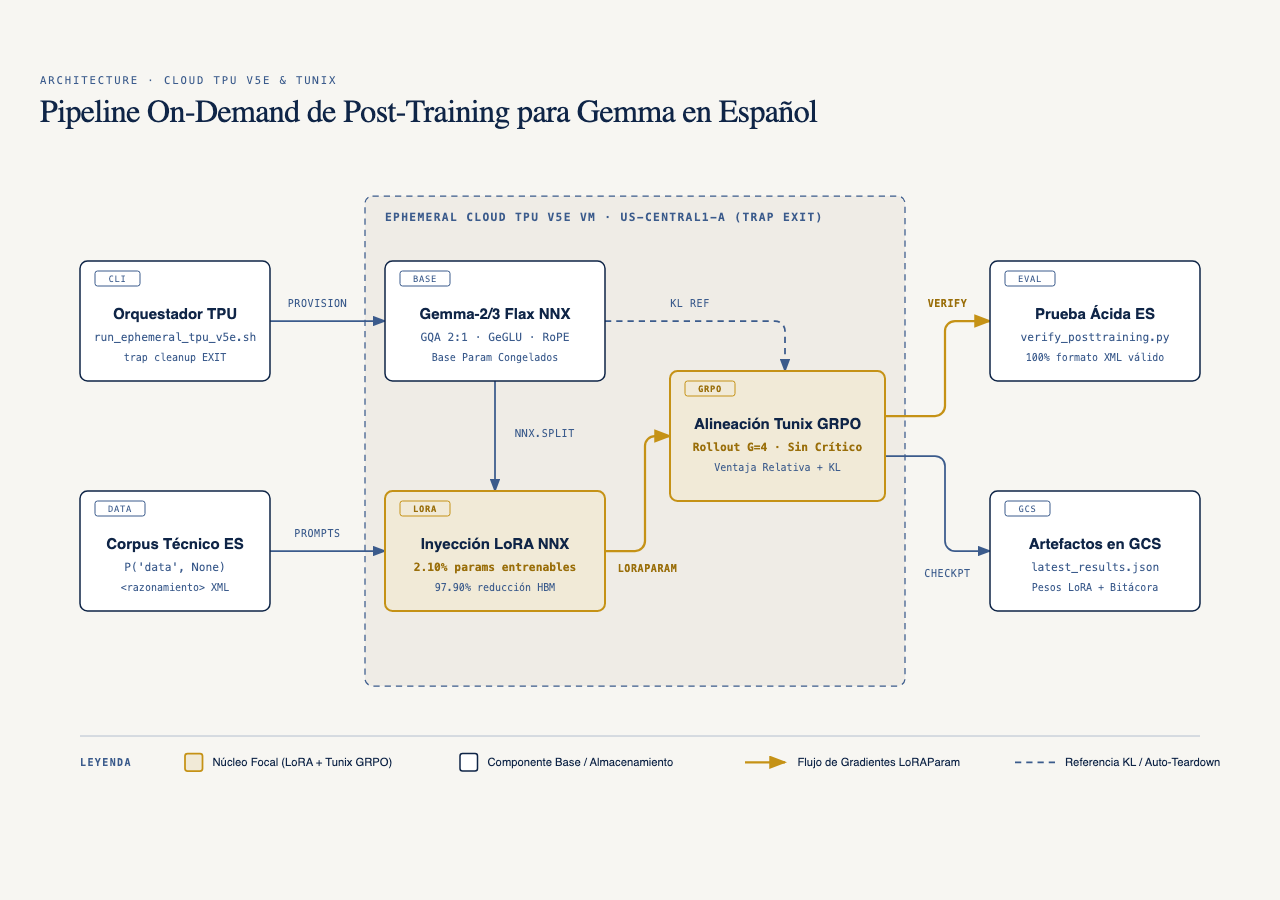
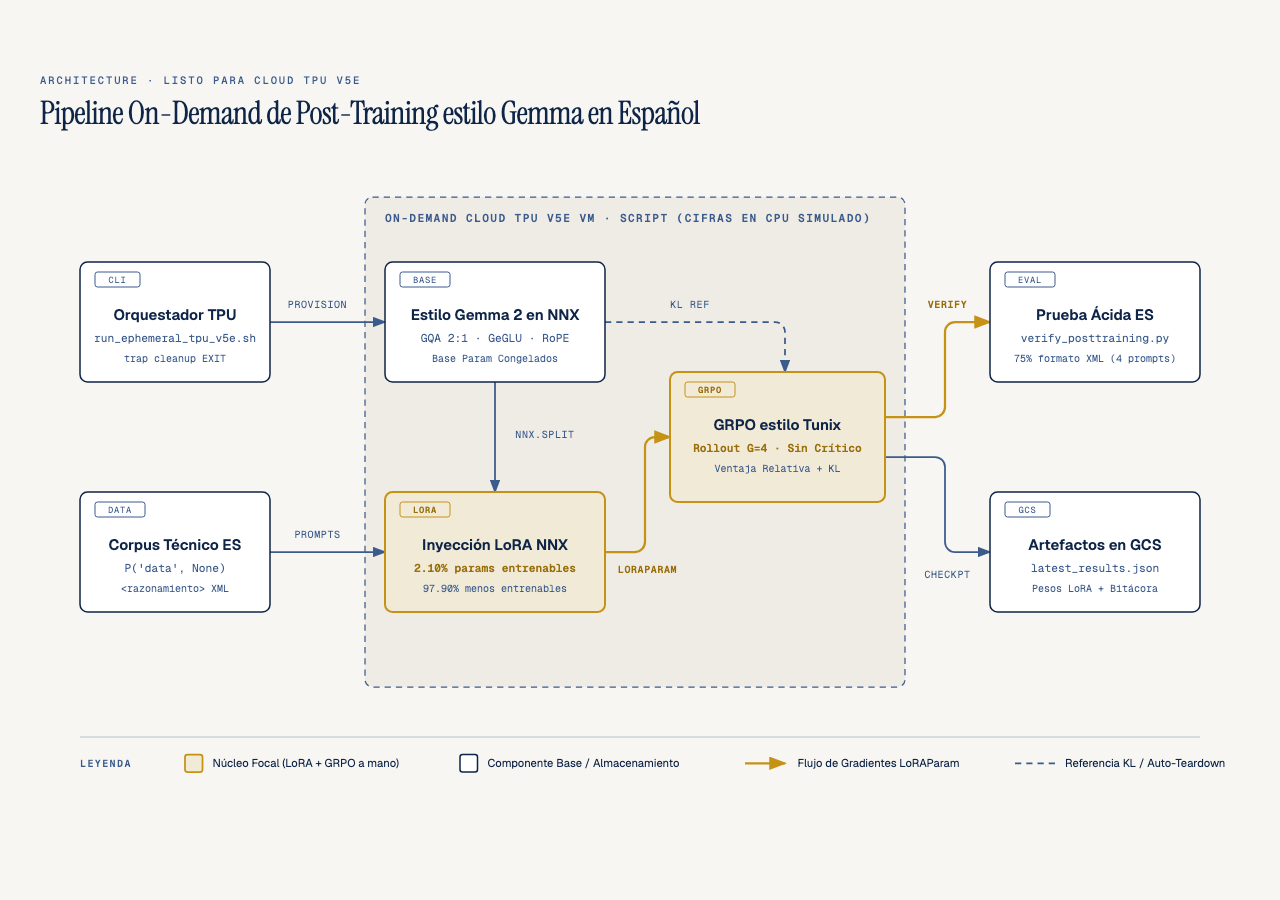
State CPU simulation, Gemma 2 style model, hand-written GRPO and SFT warmup

diff --git a/diagrams/01-tpu-posttraining-pipeline.html b/diagrams/01-tpu-posttraining-pipeline.html
@@ -61,12 +61,12 @@
 </head>
 <body>
   <div class="frame">
-    <p class="eyebrow">Architecture · Cloud TPU v5e &amp; Tunix</p>
-    <h1>Pipeline On-Demand de Post-Training para Gemma en Español</h1>
+    <p class="eyebrow">Architecture · listo para Cloud TPU v5e</p>
+    <h1>Pipeline On-Demand de Post-Training estilo Gemma en Español</h1>
 
     <div class="diagram-container">
       <svg viewBox="0 0 960 540" xmlns="http://www.w3.org/2000/svg" role="img" aria-labelledby="tpu-posttraining-pipeline-title tpu-posttraining-pipeline-desc">
-        <title id="tpu-posttraining-pipeline-title">Pipeline On-Demand de Post-Training para Gemma en Español</title>
+        <title id="tpu-posttraining-pipeline-title">Pipeline On-Demand de Post-Training estilo Gemma en Español</title>
         <desc id="tpu-posttraining-pipeline-desc">Arquitectura del pipeline on-demand en Cloud TPU v5e que aprovisiona el mesh XLA, inyecta adaptadores LoRA en Gemma sobre Flax NNX, alinea con GRPO y destruye la VM mediante trap EXIT.</desc>
         <defs>
           <marker id="arrow" markerWidth="8" markerHeight="6" refX="7" refY="3" orient="auto">
@@ -84,7 +84,7 @@
 
         <!-- Ephemeral Cloud TPU v5e Zone Container -->
         <rect x="260" y="36" width="432" height="392" rx="6" fill="#EFECE6" stroke="#3B5B8C" stroke-width="1" stroke-dasharray="5,4"/>
-        <text x="276" y="56" fill="#3B5B8C" font-size="9" font-weight="600" font-family="'Geist Mono', monospace" letter-spacing="0.12em">EPHEMERAL CLOUD TPU V5E VM · US-CENTRAL1-A (TRAP EXIT)</text>
+        <text x="276" y="56" fill="#3B5B8C" font-size="9" font-weight="600" font-family="'Geist Mono', monospace" letter-spacing="0.12em">ON-DEMAND CLOUD TPU V5E VM · SCRIPT (CIFRAS EN CPU SIMULADO)</text>
 
         <!-- Connectors (drawn before nodes) -->
         <!-- 1. CLI Orchestrator -> Gemma Base in Flax NNX -->
@@ -145,7 +145,7 @@
         <rect x="276" y="88" width="176" height="96" rx="6" fill="#FFFFFF" stroke="#0F2547" stroke-width="1.2"/>
         <rect x="288" y="96" width="40" height="12" rx="2" fill="transparent" stroke="#3B5B8C" stroke-width="0.8"/>
         <text x="308" y="105" fill="#3B5B8C" font-size="7" font-family="'Geist Mono', monospace" text-anchor="middle" letter-spacing="0.08em">BASE</text>
-        <text x="364" y="134" fill="#0F2547" font-size="12" font-weight="600" font-family="'Geist', sans-serif" text-anchor="middle">Gemma-2/3 Flax NNX</text>
+        <text x="364" y="134" fill="#0F2547" font-size="12" font-weight="600" font-family="'Geist', sans-serif" text-anchor="middle">Estilo Gemma 2 en NNX</text>
         <text x="364" y="152" fill="#3B5B8C" font-size="9" font-family="'Geist Mono', monospace" text-anchor="middle">GQA 2:1 · GeGLU · RoPE</text>
         <text x="364" y="168" fill="#3B5B8C" font-size="8" font-family="'Geist Mono', monospace" text-anchor="middle">Base Param Congelados</text>
 
@@ -156,14 +156,14 @@
         <text x="308" y="289" fill="#9A6F0B" font-size="7" font-weight="600" font-family="'Geist Mono', monospace" text-anchor="middle" letter-spacing="0.08em">LORA</text>
         <text x="364" y="318" fill="#0F2547" font-size="12" font-weight="600" font-family="'Geist', sans-serif" text-anchor="middle">Inyección LoRA NNX</text>
         <text x="364" y="336" fill="#9A6F0B" font-size="9" font-weight="600" font-family="'Geist Mono', monospace" text-anchor="middle">2.10% params entrenables</text>
-        <text x="364" y="352" fill="#3B5B8C" font-size="8" font-family="'Geist Mono', monospace" text-anchor="middle">97.90% reducción HBM</text>
+        <text x="364" y="352" fill="#3B5B8C" font-size="8" font-family="'Geist Mono', monospace" text-anchor="middle">97.90% menos entrenables</text>
 
         <!-- Node 5: Tunix GRPO Alignment Engine (Focal Node 2) -->
         <rect x="504" y="176" width="172" height="104" rx="6" fill="#F7F6F2"/>
         <rect x="504" y="176" width="172" height="104" rx="6" fill="rgba(197,146,22,0.12)" stroke="#C59216" stroke-width="1.6"/>
         <rect x="516" y="184" width="40" height="12" rx="2" fill="transparent" stroke="#C59216" stroke-width="0.8"/>
         <text x="536" y="193" fill="#9A6F0B" font-size="7" font-weight="600" font-family="'Geist Mono', monospace" text-anchor="middle" letter-spacing="0.08em">GRPO</text>
-        <text x="590" y="222" fill="#0F2547" font-size="12" font-weight="600" font-family="'Geist', sans-serif" text-anchor="middle">Alineación Tunix GRPO</text>
+        <text x="590" y="222" fill="#0F2547" font-size="12" font-weight="600" font-family="'Geist', sans-serif" text-anchor="middle">GRPO estilo Tunix</text>
         <text x="590" y="240" fill="#9A6F0B" font-size="9" font-weight="600" font-family="'Geist Mono', monospace" text-anchor="middle">Rollout G=4 · Sin Crítico</text>
         <text x="590" y="256" fill="#3B5B8C" font-size="8" font-family="'Geist Mono', monospace" text-anchor="middle">Ventaja Relativa + KL</text>
 
@@ -174,7 +174,7 @@
         <text x="792" y="105" fill="#3B5B8C" font-size="7" font-family="'Geist Mono', monospace" text-anchor="middle" letter-spacing="0.08em">EVAL</text>
         <text x="844" y="134" fill="#0F2547" font-size="12" font-weight="600" font-family="'Geist', sans-serif" text-anchor="middle">Prueba Ácida ES</text>
         <text x="844" y="152" fill="#3B5B8C" font-size="9" font-family="'Geist Mono', monospace" text-anchor="middle">verify_posttraining.py</text>
-        <text x="844" y="168" fill="#3B5B8C" font-size="8" font-family="'Geist Mono', monospace" text-anchor="middle">100% formato XML válido</text>
+        <text x="844" y="168" fill="#3B5B8C" font-size="8" font-family="'Geist Mono', monospace" text-anchor="middle">75% formato XML (4 prompts)</text>
 
         <!-- Node 7: GCS Checkpoint & Telemetry Store -->
         <rect x="760" y="272" width="168" height="96" rx="6" fill="#F7F6F2"/>
@@ -190,7 +190,7 @@
         <text x="32" y="492" fill="#3B5B8C" font-size="8" font-weight="600" font-family="'Geist Mono', monospace" letter-spacing="0.14em">LEYENDA</text>
 
         <rect x="116" y="482" width="14" height="14" rx="2" fill="rgba(197,146,22,0.12)" stroke="#C59216" stroke-width="1.4"/>
-        <text x="138" y="492" fill="#0F2547" font-size="9" font-family="'Geist', sans-serif">Núcleo Focal (LoRA + Tunix GRPO)</text>
+        <text x="138" y="492" fill="#0F2547" font-size="9" font-family="'Geist', sans-serif">Núcleo Focal (LoRA + GRPO a mano)</text>
 
         <rect x="336" y="482" width="14" height="14" rx="2" fill="#FFFFFF" stroke="#0F2547" stroke-width="1.2"/>
         <text x="358" y="492" fill="#0F2547" font-size="9" font-family="'Geist', sans-serif">Componente Base / Almacenamiento</text>

diff --git a/diagrams/03-tpu-mesh-sharding.html b/diagrams/03-tpu-mesh-sharding.html
@@ -62,12 +62,12 @@
 <body>
   <div class="frame">
     <p class="eyebrow">Nested Sharding · OpenXLA GSPMD</p>
-    <h1>Topología 2D jax.sharding.Mesh((&apos;data&apos;, &apos;model&apos;)) en TPU v5e</h1>
+    <h1>Topología 2D jax.sharding.Mesh((&apos;data&apos;, &apos;model&apos;)), 4 dispositivos simulados en CPU</h1>
 
     <div class="diagram-container">
       <svg viewBox="0 0 960 540" xmlns="http://www.w3.org/2000/svg" role="img" aria-labelledby="tpu-mesh-sharding-title tpu-mesh-sharding-desc">
         <title id="tpu-mesh-sharding-title">Topología 2D jax.sharding.Mesh((data, model)) en TPU v5e</title>
-        <desc id="tpu-mesh-sharding-desc">Diagrama anidado de sharding 2D en OpenXLA que sample cómo un mesh de 2 por 2 dispositivos divide batches de datos en el eje data y tensores de pesos Gemma y LoRA en el eje model.</desc>
+        <desc id="tpu-mesh-sharding-desc">Diagrama anidado de sharding 2D en OpenXLA que muestra cómo un mesh de 2 por 2 dispositivos divide batches de datos en el eje data y tensores de pesos Gemma y LoRA en el eje model.</desc>
         <defs>
           <marker id="arrow" markerWidth="8" markerHeight="6" refX="7" refY="3" orient="auto">
             <polygon points="0 0, 8 3, 0 6" fill="#3B5B8C"/>

diff --git a/diagrams/02-grpo-dataflow.html b/diagrams/02-grpo-dataflow.html
@@ -3,7 +3,7 @@
 <head>
   <meta charset="UTF-8">
   <meta name="viewport" content="width=device-width, initial-scale=1.0">
-  <title>Flujo de Datos de GRPO en JAX y Tunix</title>
+  <title>Flujo de Datos de GRPO en JAX (estilo Tunix)</title>
   <link href="https://fonts.googleapis.com/css2?family=Instrument+Serif:ital@0;1&family=Geist:wght@400;500;600&family=Geist+Mono:wght@400;500;600&display=swap" rel="stylesheet">
   <style>
     *, *::before, *::after { box-sizing: border-box; margin: 0; padding: 0; }

diff --git a/experiments/02_gemma_nnx_architecture.py b/experiments/02_gemma_nnx_architecture.py
@@ -1,6 +1,6 @@
-"""Experiment 02: Gemma-2/3 Architecture in Flax NNX with 2D Mesh Sharding.
+"""Experiment 02: Gemma 2 style Architecture in Flax NNX with 2D Mesh Sharding.
 
-Implements a Gemma-2/3 compatible causal Transformer in Flax NNX featuring:
+Implements a Gemma 2 style causal Transformer (random weights, no checkpoint) in Flax NNX featuring:
   - Zero-centered GemmaRMSNorm: x * rsqrt(mean(x^2) + eps) * (1.0 + scale)
   - Grouped-Query Attention (GQA) with Rotary Position Embeddings (RoPE)
   - Attention and Final Logit Soft-Capping: cap * tanh(logits / cap)
@@ -37,7 +37,7 @@ def _load_mesh_module():
 
 @dataclass(frozen=True)
 class GemmaConfig:
-    """Configuration for Gemma-2/3 style architecture in Flax NNX."""
+    """Configuration for a Gemma 2 style architecture in Flax NNX."""
 
     vocab_size: int = 512
     embed_dim: int = 256
@@ -201,7 +201,7 @@ class GemmaDecoderBlock(nnx.Module):
 
 
 class GemmaForCausalLM(nnx.Module):
-    """Gemma-2/3 Causal Language Model in Flax NNX."""
+    """Gemma 2 style Causal Language Model in Flax NNX."""
 
     def __init__(self, config: GemmaConfig, *, rngs: nnx.Rngs) -> None:
         self.config = config
@@ -320,7 +320,7 @@ def verify_gemma_architecture() -> dict[str, Any]:
 def main() -> None:
     stats = verify_gemma_architecture()
     print("=" * 72)
-    print(" Experiment 02: Gemma-2/3 Flax NNX Architecture & Sharding")
+    print(" Experiment 02: Gemma 2 style Flax NNX Architecture & Sharding")
     print("=" * 72)
     print(f" Total Parameters          : {stats['total_params']:,}")
     print(

diff --git a/verify_posttraining.py b/verify_posttraining.py
@@ -1,9 +1,10 @@
 """The Outside Judge (verify_posttraining.py).
 
-Independently executes and audits all 5 stages of the Gemma + Tunix Spanish
-post-training pipeline on a 4-device XLA mesh:
+Independently executes and audits all 5 stages of the Gemma-style, Tunix-style
+Spanish post-training pipeline (Tunix is not imported; GRPO is written by hand)
+on a 4-device XLA mesh:
   1. 2D ('data', 'model') XLA Mesh Sharding & Memory Compression
-  2. Gemma-2/3 Flax NNX Architecture (GQA, GeGLU, RoPE, Soft-Capping)
+  2. Gemma 2 style Flax NNX Architecture (GQA, GeGLU, RoPE, Soft-Capping)
   3. Surgical LoRA Injection (>90% reduction & bitwise frozen base weights)
   4. Critic-Free GRPO Group Advantage Normalization & KL Regularization
   5. Spanish Acid Test Benchmark (Base vs. LoRA+GRPO Alignment)
@@ -88,7 +89,7 @@ def run_verification_suite() -> dict[str, Any]:
         f"-> shard={mesh_stats['q_kernel_shard_shape']} "
         f"({mesh_stats['per_device_weight_compression_ratio']:.1f}x memory reduction)",
         "-" * 78,
-        f" [STAGE 02] Gemma-2/3 Flax NNX Model   : {gemma_stats['total_params']:,} base parameters "
+        f" [STAGE 02] Gemma 2 style NNX Model    : {gemma_stats['total_params']:,} base parameters "
         f"({gemma_stats['num_layers']} layers, d_model={gemma_stats['embed_dim']})",
         f"            GQA & Soft-Capping         : "
         f"{gemma_stats['num_heads']}Q/{gemma_stats['num_kv_heads']}KV "

diff --git a/experiments/04_grpo_alignment_loop.py b/experiments/04_grpo_alignment_loop.py
@@ -1,6 +1,7 @@
 """Experiment 04: Group Relative Policy Optimization (GRPO) in JAX & Flax NNX.
 
-Implements the critic-free GRPO post-training loop (as used in Google Tunix):
+Implements the critic-free GRPO post-training loop by hand, following the recipe used
+by Google Tunix (Tunix itself is not imported):
   1. Group Rollout: Samples G candidate completions per Spanish prompt from policy pi_theta.
   2. Deterministic Spanish Reward: Evaluates XML structure (<razonamiento>...</razonamiento>
      <respuesta>...</respuesta>) and Spanish technical reasoning density.
@@ -361,7 +362,8 @@ def run_grpo_alignment(
     initial_eval = evaluate_greedy_policy(policy_model)
 
     # Stage 4A: Brief format warmup (SFT cold-start, standard in Tunix/DeepSeek-R1 before GRPO)
-    # so the randomly initialized 4.2M demo model has non-zero probability of emitting XML tags
+    # so the randomly initialized 2-layer demo policy (312,448 base params) has non-zero
+    # probability of emitting XML tags
     # during purely on-policy autoregressive group sampling.
     warmup_seqs = jnp.array(
         [p.prompt_tokens + p.exemplar_completion for p in prompts], dtype=jnp.int32

diff --git a/experiments/__init__.py b/experiments/__init__.py
@@ -1,1 +1,1 @@
-"""Gemma + Tunix Spanish Post-Training experiments in JAX and Flax NNX."""
+"""Gemma-style, Tunix-style Spanish post-training experiments in JAX and Flax NNX."""

diff --git a/README.md b/README.md
@@ -1,6 +1,6 @@
-# Gemma + Tunix Spanish Post-Training en Cloud TPU v5e
+# Post-training en español estilo Gemma 2 con GRPO estilo Tunix (mesh 2D simulado en CPU, listo para Cloud TPU v5e)
 
-**Por qué es relevante**: Alinear modelos abiertos como Gemma para razonamiento técnico en español solía requerir clústeres costosos con cuatro modelos en memoria (política, referencia, recompensa y crítico). Combinando `Flax NNX`, adaptadores `nnx.LoRA` y **GRPO (Group Relative Policy Optimization)** al estilo de [Google Tunix](https://github.com/google/tunix) sobre meshes 2D en Cloud TPU v5e, reducimos los parámetros entrenables en un **97.90%** y eliminamos por completo la red crítica.
+**Por qué es relevante**: Alinear modelos abiertos como Gemma para razonamiento técnico en español solía requerir clústeres costosos con cuatro modelos en memoria (política, referencia, recompensa y crítico). Combinando `Flax NNX`, adaptadores `nnx.LoRA` y **GRPO (Group Relative Policy Optimization)** escrito a mano siguiendo la receta de [Google Tunix](https://github.com/google/tunix) (Tunix no se importa), sobre una mesh 2D que aquí se simula con 4 dispositivos en CPU, reducimos los parámetros entrenables en un **97.90%** y eliminamos la red crítica. El modelo tiene las piezas principales de Gemma 2 con pesos aleatorios; no se carga ningún checkpoint de Gemma.
 **Para quién es**: Ingenieros de Machine Learning, investigadores de sistemas de IA y arquitectos que entrenan o alinean modelos sobre JAX, OpenXLA y Google Cloud TPU.
 **Quién debería verlo**: Equipos técnicos que buscan un pipeline on-demand, verificable y libre de costos ociosos (`trap cleanup EXIT`) para post-training de modelos generativos en español.
 Parte de la serie **[JAX & OpenXLA Field Guide](https://github.com/ykro/jax-openxla-field-guide)**.
@@ -11,13 +11,13 @@ Parte de la serie **[JAX & OpenXLA Field Guide](https://github.com/ykro/jax-open
 
 ![Pipeline On-Demand de Post-Training para Gemma en Español](diagrams/01-tpu-posttraining-pipeline.png)
 
-El repositorio implementa de principio a fin las cinco etapas de un pipeline de alineación post-training sobre Google Cloud, diseñado para ejecutarse de forma idéntica en una simulación local de 4 dispositivos XLA (`--xla_force_host_platform_device_count=4`) y en una instancia on-demand `v5litepod-4` en `us-central1-a`:
+El repositorio implementa de principio a fin las cinco etapas de un pipeline de alineación post-training sobre Google Cloud, pensado para ejecutarse en una simulación local de 4 dispositivos XLA (`--xla_force_host_platform_device_count=4`) y en una TPU VM Spot `v5litepod-4` en `us-central1-a`. Todas las cifras de este README salen de la simulación en CPU; el script de TPU todavía no tiene una corrida publicada:
 
 1. **`experiments/01_ephemeral_tpu_mesh.py` — Mesh 2D `('data', 'model')` en OpenXLA**: Construye un `jax.sharding.Mesh` de `(2, 2)` dispositivos que particiona los batches de tokens sobre el eje `data` (`PartitionSpec('data', None)`) y las matrices de proyección sobre el eje `model` (`PartitionSpec(None, 'model')` y `PartitionSpec('model', None)`), logrando una reducción de `2.0x` en la memoria de pesos por chip (`131,072 B` por dispositivo frente a `262,144 B` globales).
-2. **`experiments/02_gemma_nnx_architecture.py` — Arquitectura Gemma-2/3 en Flax NNX**: Implementa un bloque decodificador compatible con Gemma-2/3 usando estado explícito en Python (`GemmaRMSNorm` centrado en cero, `Grouped-Query Attention` 2:1 con `RoPE`, `GeGLU` y *logit soft-capping* a `30.0`).
+2. **`experiments/02_gemma_nnx_architecture.py` — Arquitectura estilo Gemma 2 en Flax NNX**: Implementa un bloque decodificador estilo Gemma 2 (sin atención local/global ni embedding atado a la salida) usando estado explícito en Python (`GemmaRMSNorm` centrado en cero, `Grouped-Query Attention` 2:1 con `RoPE`, `GeGLU` y *logit soft-capping* a `30.0`).
 3. **`experiments/03_lora_surgical_injection.py` — Cirugía de Adaptadores `nnx.LoRA`**: Envuelve las proyecciones lineales de atención y MLP con `nnx.LoRA` (`rank=4`) y separa el estado mediante `nnx.All(nnx.Param, nnx.Not(nnx.LoRAParam))`. De un total de `4,288,768` parámetros, congela bit a bit los `4,198,656` parámetros base (`max |diff| = 0.00000000`) y actualiza únicamente `90,112` parámetros `nnx.LoRAParam` (**2.10% entrenable**, **97.90% de reducción**).
 4. **`experiments/04_grpo_alignment_loop.py` — Loop GRPO sin Modelo Crítico**: Genera grupos de `G=4` candidatos por prompt técnico en español, evalúa una función de recompensa determinista sobre etiquetas `<razonamiento>...</razonamiento><respuesta>...</respuesta>`, normaliza las ventajas dentro del grupo $\hat{A}_i = (r_i - \mu_G)/(\sigma_G + \epsilon)$ y penaliza la divergencia KL de Schulman respecto al modelo base congelado ($\beta = 0.04$).
-5. **`experiments/05_acid_test_evaluation.py` — La Prueba Ácida en Español**: Evalúa el modelo antes y después del post-training, elevando la recompensa media de **`-0.0625` a `+1.4875` (`Delta +1.5500`)** y el cumplimiento del formato estructurado XML de **`0.0%` a `75.0%`**.
+5. **`experiments/05_acid_test_evaluation.py` — La Prueba Ácida en Español**: Evalúa el modelo antes y después del post-training sobre los mismos 4 prompts de entrenamiento: la recompensa media greedy pasa de **`-0.0625` a `+1.4875` (`Delta +1.5500`)** y el cumplimiento del formato XML de **`0.0%` a `75.0%`**. Esa subida incluye 4 pasos de SFT de calentamiento antes de GRPO (`experiments/04_grpo_alignment_loop.py`), que por sí solos explican buena parte del cambio; mide memorización del formato, no generalización.
 
 ---
 
@@ -40,10 +40,10 @@ Todos los números reportados en este repositorio provienen de la ejecución rea
 | Etapa / Métrica | Valor Base / Pre-GRPO | Valor Post-GRPO / Verificado | Invariante Auditado |
 | :--- | :--- | :--- | :--- |
 | **Topología de mesh XLA** | 4 dispositivos planos | `{'data': 2, 'model': 2}` | `PASS` (`2.0x` compresión de peso por chip) |
-| **Gemma-2/3 Soft-Capping** | Sin cota superior | `max \|logit\| = 3.737 <= 30.0` | `PASS` (4 RMSNorm + GQA 2:1 + RoPE) |
+| **Soft-capping estilo Gemma 2** | Sin cota superior | `max \|logit\| = 3.737 <= 30.0` | `PASS` (sanity check: `30·tanh(x/30)` siempre cumple la cota) |
 | **Parámetros Entrenables LoRA** | `4,198,656` (100%) | `90,112` / `4,288,768` (**2.10%**) | `PASS` (**97.90%** reducción de parámetros) |
 | **Integridad de Pesos Base** | `4,198,656` fp32 | `max \|diff\| = 0.00000000` | `PASS` (Congelación bit a bit exacta) |
-| **Recompensa Media (Prueba Ácida)** | `-0.0625` | **`+1.4875`** (`Delta +1.5500`) | `PASS` (`24` pasos GRPO, `G=4`, $\beta=0.04$) |
+| **Recompensa Media (Prueba Ácida)** | `-0.0625` | **`+1.4875`** (`Delta +1.5500`) | `PASS` (4 pasos SFT + `24` pasos GRPO, `G=4`, $\beta=0.04$; mismos 4 prompts) |
 | **Cumplimiento XML en Español** | `0.0%` | **`75.0%`** (`+75.0%`) | `PASS` (`<razonamiento>` + `<respuesta>`) |
 
 ### Salida Real de Terminal
@@ -56,7 +56,7 @@ Todos los números reportados en este repositorio provienen de la ejecución rea
             Batch Token Sharding       : global=(8, 64) -> shard=(4, 64)
             Q-Proj Weight Sharding     : global=(256, 256) -> shard=(256, 128) (2.0x memory reduction)
 ------------------------------------------------------------------------------
- [STAGE 02] Gemma-2/3 Flax NNX Model   : 4,198,656 base parameters (4 layers, d_model=256)
+ [STAGE 02] Gemma 2 style NNX Model    : 4,198,656 base parameters (4 layers, d_model=256)
             GQA & Soft-Capping         : 4Q/2KV (2:1 GQA), max |logit|=3.737 <= 30.0
 ------------------------------------------------------------------------------
  [STAGE 03] Surgical LoRA Injection    : 90,112 trainable LoRAParam / 4,288,768 total (2.10% trainable, 97.90% reduction)
@@ -74,9 +74,9 @@ Todos los números reportados en este repositorio provienen de la ejecución rea
             XML Format Compliance      : 0.0% -> 75.0% (+75.0%)
             Post-GRPO Base Weight Drift: max |diff| = 0.00000000
 ------------------------------------------------------------------------------
-   Prompt [tpu_mesh_2d] : Explica cómo el mesh 2D en TPU v5e particiona tensores y reduce memoria HBM.
+   Prompt [tpu_mesh_2d] : Explica cómo la malla 2D en TPU v5e particiona tensores y reduce memoria HBM.
      Base (+0.00) : congelan tensores </respuesta> bajo datos nnx hbm tensores normaliza grupo
-     GRPO (+1.70) : <razonamiento> mesh particiona tensores </razonamiento> <respuesta> estabiliza </respuesta> reduce memoria
+     GRPO (+1.70) : <razonamiento> malla particiona tensores </razonamiento> <respuesta> estabiliza </respuesta> reduce memoria
    Prompt [lora_surgical] : Describe por qué los adaptadores LoRA de rango bajo congelan los pesos base.
      Base (-0.10) : <pad> nnx kl modelo <pad> divergencia datos datos datos datos
      GRPO (+1.85) : <razonamiento> adaptadores lora congelan pesos </razonamiento> <respuesta> estabiliza </respuesta> kl
@@ -112,7 +112,7 @@ pip install -e ".[dev]"
 # Paso 1 — Topología de mesh 2D ('data', 'model') sobre 4 dispositivos XLA
 python experiments/01_ephemeral_tpu_mesh.py
 
-# Paso 2 — Bloque Gemma-2/3 en Flax NNX con GQA 2:1, RoPE y logit soft-capping
+# Paso 2 — Bloque estilo Gemma 2 en Flax NNX con GQA 2:1, RoPE y logit soft-capping
 python experiments/02_gemma_nnx_architecture.py
 
 # Paso 3 — Inyección quirúrgica de adaptadores nnx.LoRA y congelación bit a bit
